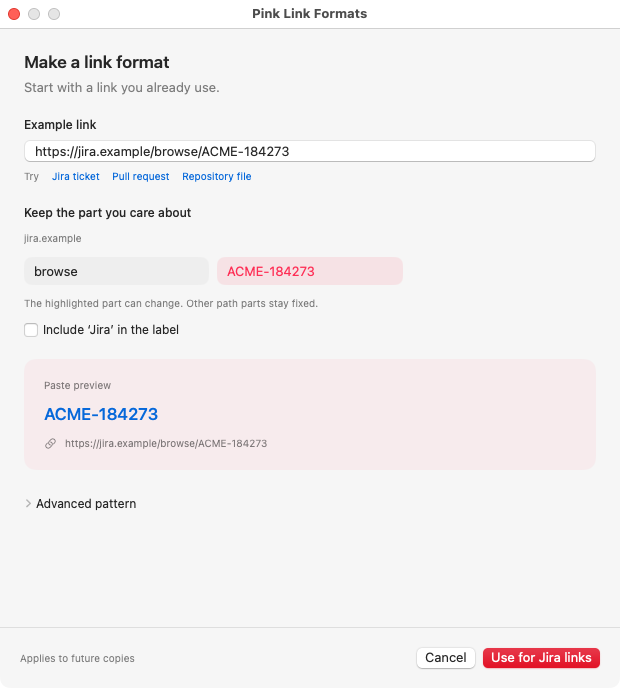
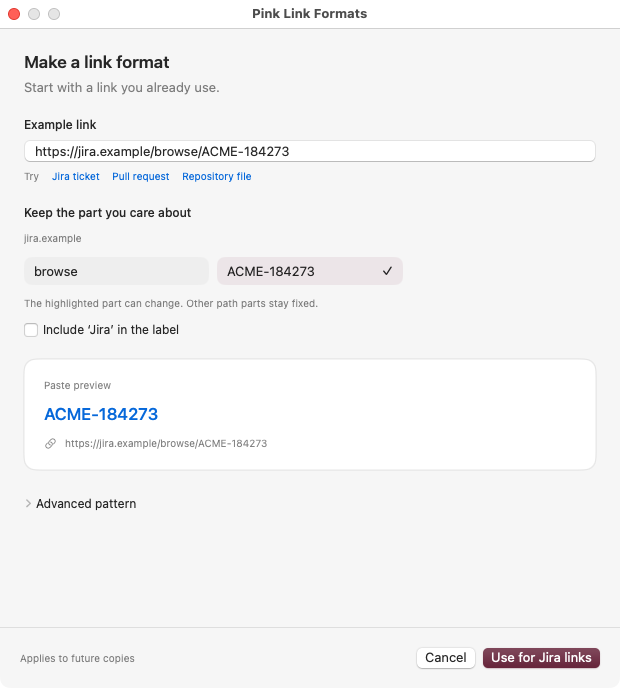
docs: refresh reviewed light and dark settings captures

Changed region(s): [[0.7661, 0.9157, 0.9806, 0.9767], [0.3677, 0.3663, 0.521, 0.4273]]

diff --git a/docs/images/README.md b/docs/images/README.md
@@ -3,20 +3,23 @@
 The README shows three real Pink views:
 
 - `menu-bar.png`: the menu-bar icon and formatting, settings and update actions.
-- `settings.png`: the unified Link formats collection, Add format action and shared preview.
-- `link-formats.png`: the paste-first builder with a reserved-host Jira example. The issue key is selected automatically, the paste preview is visible, and the primary action is Use for Jira links. No pattern is supplied to the capture view.
+- `settings.png`: the unified Link formats collection, muted Add format action, visible More menu, bordered row options and shared preview.
+- `link-formats.png`: the paste-first builder with a reserved-host Jira example. The issue key is selected automatically, the paste preview is visible, and the primary action is Use for Jira links. The selected part also has a checkmark. No pattern is supplied to the capture view.
 
 With Xcode 26.2 selected and the normal build prerequisites installed, run:
 
 ```sh
 make bootstrap
 node scripts/capture-readme.mjs
+PINK_CAPTURE_APPEARANCE=dark node scripts/capture-readme.mjs build/readme-captures/dark
 ```
 
 The separate documentation target uses demo settings and a unique named pasteboard. It bypasses preference loading/migration/writing and never registers login items, requests clipboard permission or checks for updates. Its development version is `0.0.0`. The menu is captured as a native screen region; Settings and the builder are captured by macOS window number after controls render. The neutral backdrop is a real window, and no screenshot pixels are altered. The command builds for its native host architecture on Apple Silicon or Intel. Capture failures do not grant or change system permissions.
 
 Review the PNGs under `build/readme-captures/` before copying affected images here. Keep README examples, navigation, image references and alt text consistent with current behavior. Record the source revision, CI run, operating system, architecture, review date and SHA-256 checksums in `capture.txt`. Verify demo output against the formatter and check local links. Retake affected images when the UI changes. These requirements also live in root `AGENTS.md`.
 
-CI sets `PINK_CAPTURE_TEXT_EXPORT=1` to emit checksum-tagged base64 copies of the four fixed synthetic demo outputs. This lets review tools inspect the original PNG bytes when artifact downloads are unavailable. Export is bounded to 1 MiB per file and never reads the general clipboard or user examples. Normal local captures omit this export.
+The README uses matching light and dark image sources. The dark capture sets only the documentation app’s appearance to darkAqua; it does not change system settings. The menu bar/menu keeps its native system appearance. Both sets are committed, and both are visually reviewed.
 
-The committed images were captured on macOS 15.7.9 (24G830), Intel, with Xcode 26.2 in [CI run 132](https://github.com/mamachanko/pink/actions/runs/44127980161) at source PR head `166f1fd0c1efcb84f5be2a8708178f4e5123b565`, then visually reviewed on 2026-11-17. See `capture.txt` for checksums and provenance.
+CI sets `PINK_CAPTURE_TEXT_EXPORT=1` to emit checksum-tagged base64 copies of the four fixed synthetic demo outputs per appearance. This lets review tools inspect the original PNG bytes when artifact downloads are unavailable. Export is bounded to 1 MiB per file and never reads the general clipboard or user examples. Normal local captures omit this export.
+
+The committed images were captured on macOS 15.7.9 (24G830), Intel, with Xcode 26.2 in [CI run 139](https://github.com/mamachanko/pink/actions/runs/44262618716) at source PR head `3b87775925771bfdeed8e9f5e4bec9252acd8ba7`, then visually reviewed in light and dark appearance on 2026-11-18. See `capture.txt` for checksums and provenance.

diff --git a/README.md b/README.md
@@ -61,13 +61,13 @@ Pink works with single links, repeated links and multiline prose. It stays in yo
 <table align="center">
   <tr><th>In the menu bar</th><th>Your link formats</th></tr>
   <tr>
-    <td align="center" valign="top"><a href="docs/images/menu-bar.png"><img src="docs/images/menu-bar.png" width="261" alt="Pink’s menu with formatting, restore, settings and update actions."></a></td>
-    <td align="center" valign="top"><a href="docs/images/settings.png"><img src="docs/images/settings.png" width="440" alt="Pink’s unified link format collection with GitHub, GitLab and Jira formats, Add format and a shared preview."></a></td>
+    <td align="center" valign="top"><a href="docs/images/menu-bar.png"><picture><source media="(prefers-color-scheme: dark)" srcset="docs/images/dark/menu-bar.png"><img src="docs/images/menu-bar.png" width="261" alt="Pink’s menu with formatting, restore, settings and update actions."></picture></a></td>
+    <td align="center" valign="top"><a href="docs/images/settings.png"><picture><source media="(prefers-color-scheme: dark)" srcset="docs/images/dark/settings.png"><img src="docs/images/settings.png" width="440" alt="Pink’s unified link format collection with GitHub, GitLab and Jira formats, Add format, a visible More menu, bordered row options and a shared preview."></picture></a></td>
   </tr>
 </table>
 
 <p align="center">
-  <a href="docs/images/link-formats.png"><img src="docs/images/link-formats.png" width="620" alt="Pink’s paste-first builder automatically selects ACME-184273 from a Jira URL and shows its hyperlink preview, optional context and Use for Jira links action. Advanced pattern is collapsed."></a>
+  <a href="docs/images/link-formats.png"><picture><source media="(prefers-color-scheme: dark)" srcset="docs/images/dark/link-formats.png"><img src="docs/images/link-formats.png" width="620" alt="Pink’s paste-first builder automatically selects ACME-184273 from a Jira URL and shows its hyperlink preview, a checkmark on the selected part, optional context and Use for Jira links action. Advanced pattern is collapsed."></picture></a>
 </p>
 
 <p align="center"><sub>Actual Pink UI on macOS with demo settings. <a href="docs/images/README.md">Capture details</a>.</sub></p>
@@ -150,7 +150,7 @@ Files keep the revision and path together because branch names can contain slash
 
 ### Custom link formats and preview
 
-Settings uses a quiet rose accent for primary actions, native switches, and bordered options buttons. Use the **Link formats / General** selector at the top to switch sections.
+Settings follows your Mac’s light or dark appearance. It uses a quiet rose accent for primary actions, native switches, and bordered options buttons. Use the **Link formats / General** selector at the top to switch sections.
 
 Open **Settings → Link formats → Add format** and paste a link you already use. Pink suggests the useful part and shows the resulting hyperlink immediately.
 

diff --git a/docs/verification.md b/docs/verification.md
@@ -138,3 +138,12 @@ The pre-rebase application passed every required check in [run 127](https://gith
 Rebase review found and fixed discarded Advanced edits and label choices when testing another example, plus a misleading Undo notice after a no-op save. The in-memory draft is now exercised directly, including exact preview destinations, manual pattern retention through invalid/nonmatching input, explicit regeneration, format identity and HTTP endpoint approval. Default builder layout remains unchanged; the fresh captures confirm byte-identical builder and Settings views after these state fixes. The obsolete checksum fix was dropped because main already contains it.
 
 Final-head native/required-check results are recorded by PR #30 checks. Earlier successful jobs do not attest later heads. Interactive keyboard/VoiceOver/dark-mode, real receiver paste and release-install acceptance remain NOT RUN; synthetic pasteboard tests and screenshots do not establish those results. This PR does not merge or publish a release.
+
+
+## Settings visual polish — 2026-11-18
+
+Local PASS: `make lint test` (55 portable Swift tests, 45 tooling tests), App syntax parsing, all seven README demo rows against the real formatter and all 52 README link/image sources including dark variants. The muted action color has a 5.71:1 contrast ratio against white before native control rendering. No matcher, persistence or clipboard behavior changes.
+
+Real native light/dark captures PASS in [run 139](https://github.com/mamachanko/pink/actions/runs/44262618716), source `3b87775925771bfdeed8e9f5e4bec9252acd8ba7`. All six PNGs were checksum-verified, visually reviewed and copied byte-for-byte into docs/images with source provenance. Review caught a remaining background seam and a split menu bezel in the first pass; the committed captures show a continuous settings surface and complete More button. The selected builder part has a checkmark as well as a subtle tint. Captures use the app's aqua/darkAqua appearance, synthetic settings and a named pasteboard; system preferences remain unchanged.
+
+PR #33 required checks record exact-head verification on both native architectures, packaging and both appearance captures. Screenshot review establishes these rendered states; interactive keyboard/VoiceOver and released-build acceptance were not performed in this Linux workspace.
